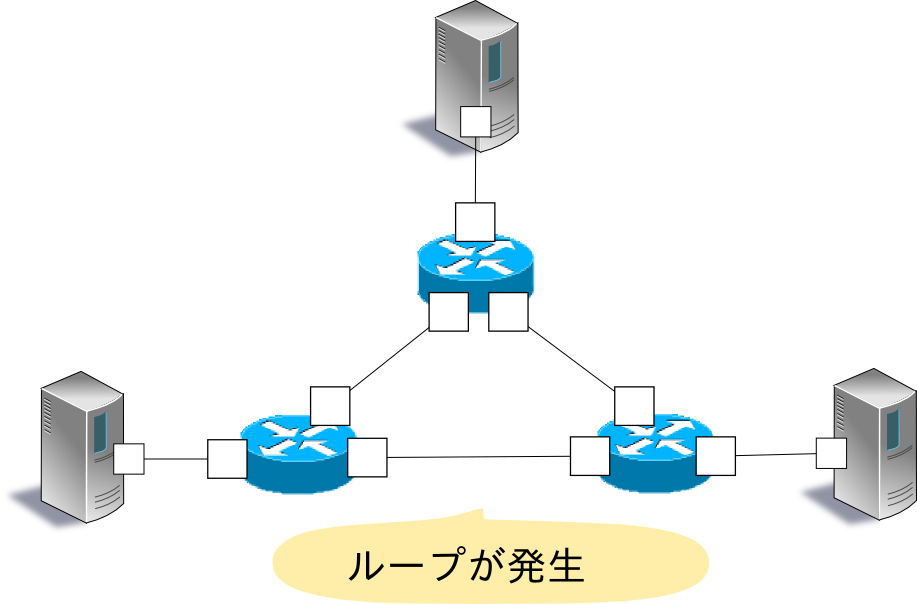
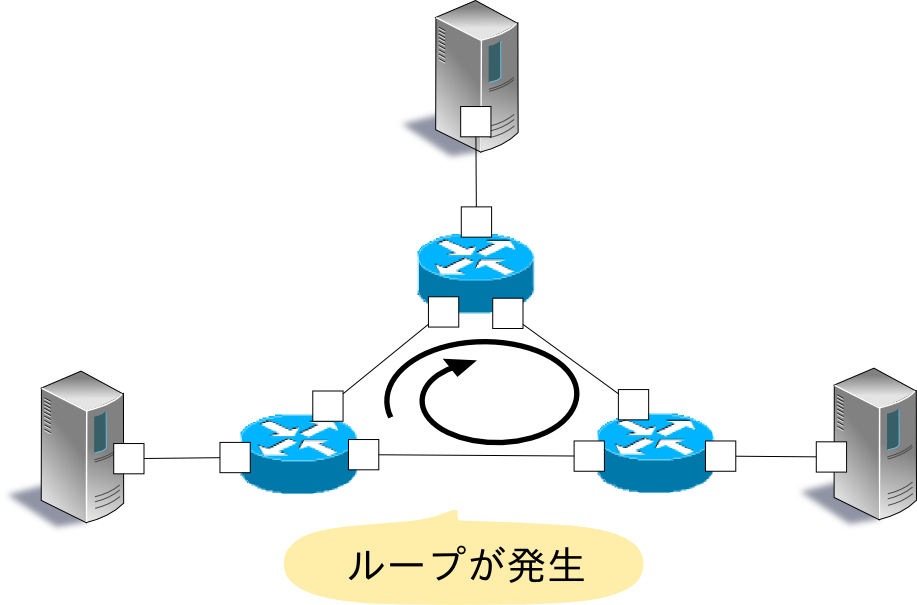
ja/html: c603fdf update stp images

diff --git a/ja/html/spanning_tree.html b/ja/html/spanning_tree.html
@@ -58,19 +58,8 @@
 <p>スパニングツリーはループ構造を持つネットワークにおけるブロードキャストストームの発生を抑制する機能です。また、ループを防止するという本来の機能を応用して、ネットワーク故障が発生した際に自動的に経路を切り替えるネットワークの冗長性確保の手段としても用いられます。</p>
 <p>スパニングツリーにはSTP、RSTP、PVST+、MSTPなど様々な種別がありますが、本章では最も基本的なSTPの実装を見ていきます。</p>
 <p>STP(spanning tree protocol：IEEE 802.1D)はネットワークを論理的なツリーとして扱い、各ブリッジのポートをフレーム転送可能または不可能な状態に設定することで、ループ構造を持つネットワークにおけるブロードキャストストームの発生を抑制します。</p>
-<table border="1" class="docutils">
-<colgroup>
-<col width="50%" />
-<col width="50%" />
-</colgroup>
-<tbody valign="top">
-<tr class="row-odd"><td><img alt="_images/fig13.png" class="first last" src="_images/fig13.png" />
-</td>
-<td><img alt="_images/fig23.png" class="first last" src="_images/fig23.png" />
-</td>
-</tr>
-</tbody>
-</table>
+<a class="reference internal image-reference" href="_images/fig13.png"><img alt="_images/fig13.png" src="_images/fig13.png" style="width: 641.9px; height: 423.5px;" /></a>
+<a class="reference internal image-reference" href="_images/fig23.png"><img alt="_images/fig23.png" src="_images/fig23.png" style="width: 641.9px; height: 422.8px;" /></a>
 <p>STPではブリッジ間でBPDU(Bridge Protocol Data Unit)パケットを相互に交換しブリッジや各ポートの情報を比較することで、論理ツリーの頂点であるルートブリッジを決定し、さらに各ブリッジのポートのフレーム転送可否を決定します。</p>
 <p>具体的には、次のような手順により実現されます。</p>
 <ol class="arabic">
@@ -121,12 +110,12 @@
 </li>
 <li><dl class="first docutils">
 <dt>非指定ポート(Non designated port)：</dt>
-<dd><p class="first">ルートポート・指定ポート以外のポート。フレーム転送を抑制するポートです。</p>
-<a class="last reference internal image-reference" href="_images/fig33.png"><img alt="_images/fig33.png" src="_images/fig33.png" style="width: 733.6px; height: 512.0px;" /></a>
+<dd><p class="first last">ルートポート・指定ポート以外のポート。フレーム転送を抑制するポートです。</p>
 </dd>
 </dl>
 </li>
 </ul>
+<a class="reference internal image-reference" href="_images/fig33.png"><img alt="_images/fig33.png" src="_images/fig33.png" style="width: 596.05px; height: 416.0px;" /></a>
 <div class="admonition note">
 <p class="first admonition-title">ノート</p>
 <p>ルートブリッジに至るまでのコストは、各ポートが受信したBPDUパケットの設定値から次のように比較されます。</p>
@@ -163,7 +152,7 @@
 <blockquote>
 <div><p>ポート役割の決定後(STP計算の完了時)、各ポートはLISTEN状態になります。その後、以下に示す状態遷移を行い、最終的に各ポートの役割に従ってFORWARD状態またはBLOCK状態に遷移します。コンフィグで無効ポートと設定されたポートはDISABLE状態となり、以降、状態遷移は行われません。</p>
 <blockquote>
-<div><a class="reference internal image-reference" href="_images/fig43.png"><img alt="_images/fig43.png" src="_images/fig43.png" style="width: 291.0px; height: 456.5px;" /></a>
+<div><a class="reference internal image-reference" href="_images/fig43.png"><img alt="_images/fig43.png" src="_images/fig43.png" style="width: 407.4px; height: 639.1px;" /></a>
 </div></blockquote>
 <table border="1" class="docutils">
 <colgroup>
@@ -412,7 +401,7 @@
 </div>
 <p>VM環境でこのプログラムを実行することにより、スイッチs1、s2、s3の間でループが存在するトポロジが作成されます。</p>
 <blockquote>
-<div><a class="reference internal image-reference" href="_images/fig51.png"><img alt="_images/fig51.png" src="_images/fig51.png" style="width: 733.6px; height: 486.4px;" /></a>
+<div><a class="reference internal image-reference" href="_images/fig51.png"><img alt="_images/fig51.png" src="_images/fig51.png" style="width: 641.9px; height: 425.6px;" /></a>
 </div></blockquote>
 <p>netコマンドの実行結果は以下の通りです。</p>
 <div class="console highlight-python"><pre>ryu@ryu-vm:~$ sudo ./spanning_tree.py
@@ -545,7 +534,7 @@ instantiating app ryu.controller.ofp_handler of OFPHandler</pre>
 </div>
 <p>この結果、最終的に各ポートはFORWARD状態またはBLOCK状態となります。</p>
 <blockquote>
-<div><a class="reference internal image-reference" href="_images/fig61.png"><img alt="_images/fig61.png" src="_images/fig61.png" style="width: 733.6px; height: 486.4px;" /></a>
+<div><a class="reference internal image-reference" href="_images/fig61.png"><img alt="_images/fig61.png" src="_images/fig61.png" style="width: 641.9px; height: 425.6px;" /></a>
 </div></blockquote>
 <p>パケットがループしないことを確認するため、ホスト1からホスト2へpingを実行します。</p>
 <p>pingコマンドを実行する前に、各スイッチでパケットがループしていないことを確認できるようにtcpdumpコマンドを実行しておきます。</p>
@@ -659,7 +648,7 @@ listening on s3-eth2, link-type EN10MB (Ethernet), capture size 65535 bytes
 </div>
 <p>これまでBLOCK状態だったs3-eth2のポートがFORWARD状態となり、再びフレーム転送可能な状態となったことが確認できます。</p>
 <blockquote>
-<div><a class="reference internal image-reference" href="_images/fig71.png"><img alt="_images/fig71.png" src="_images/fig71.png" style="width: 733.6px; height: 486.4px;" /></a>
+<div><a class="reference internal image-reference" href="_images/fig71.png"><img alt="_images/fig71.png" src="_images/fig71.png" style="width: 641.9px; height: 425.6px;" /></a>
 </div></blockquote>
 </div>
 <div class="section" id="id5">
@@ -720,7 +709,7 @@ listening on s3-eth2, link-type EN10MB (Ethernet), capture size 65535 bytes
 </div>
 <p>OpenFlowスイッチの初回起動時と同様のツリー構成となり、再びフレーム転送可能な状態となったことが確認できます。</p>
 <blockquote>
-<div><a class="reference internal image-reference" href="_images/fig81.png"><img alt="_images/fig81.png" src="_images/fig81.png" style="width: 733.6px; height: 486.4px;" /></a>
+<div><a class="reference internal image-reference" href="_images/fig81.png"><img alt="_images/fig81.png" src="_images/fig81.png" style="width: 641.9px; height: 425.6px;" /></a>
 </div></blockquote>
 </div>
 </div>
